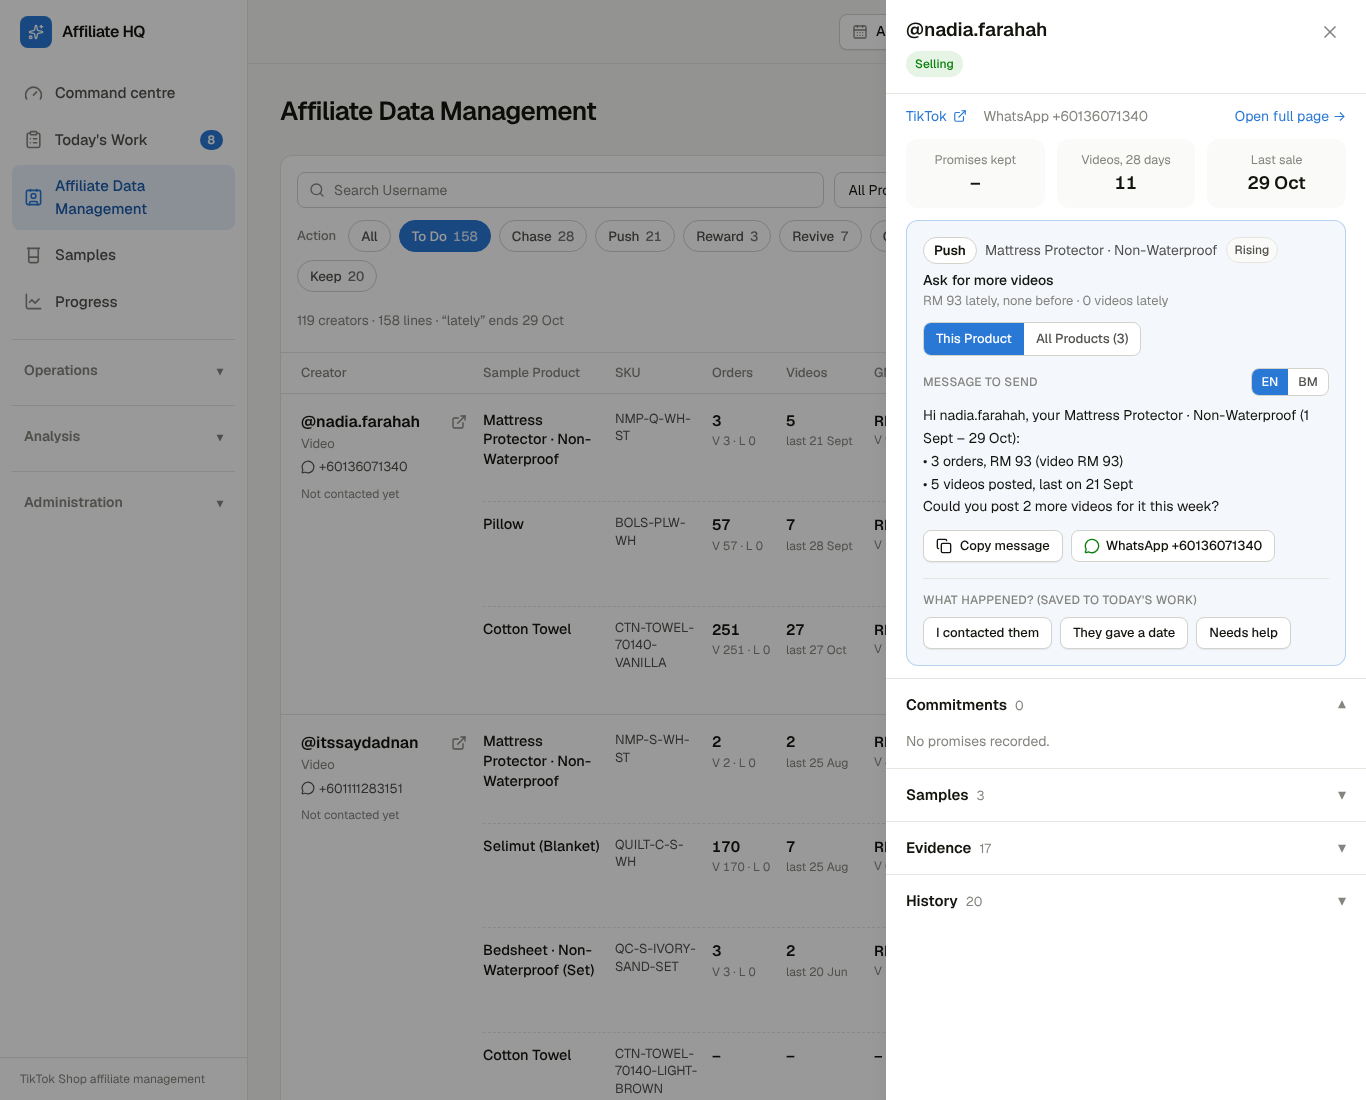
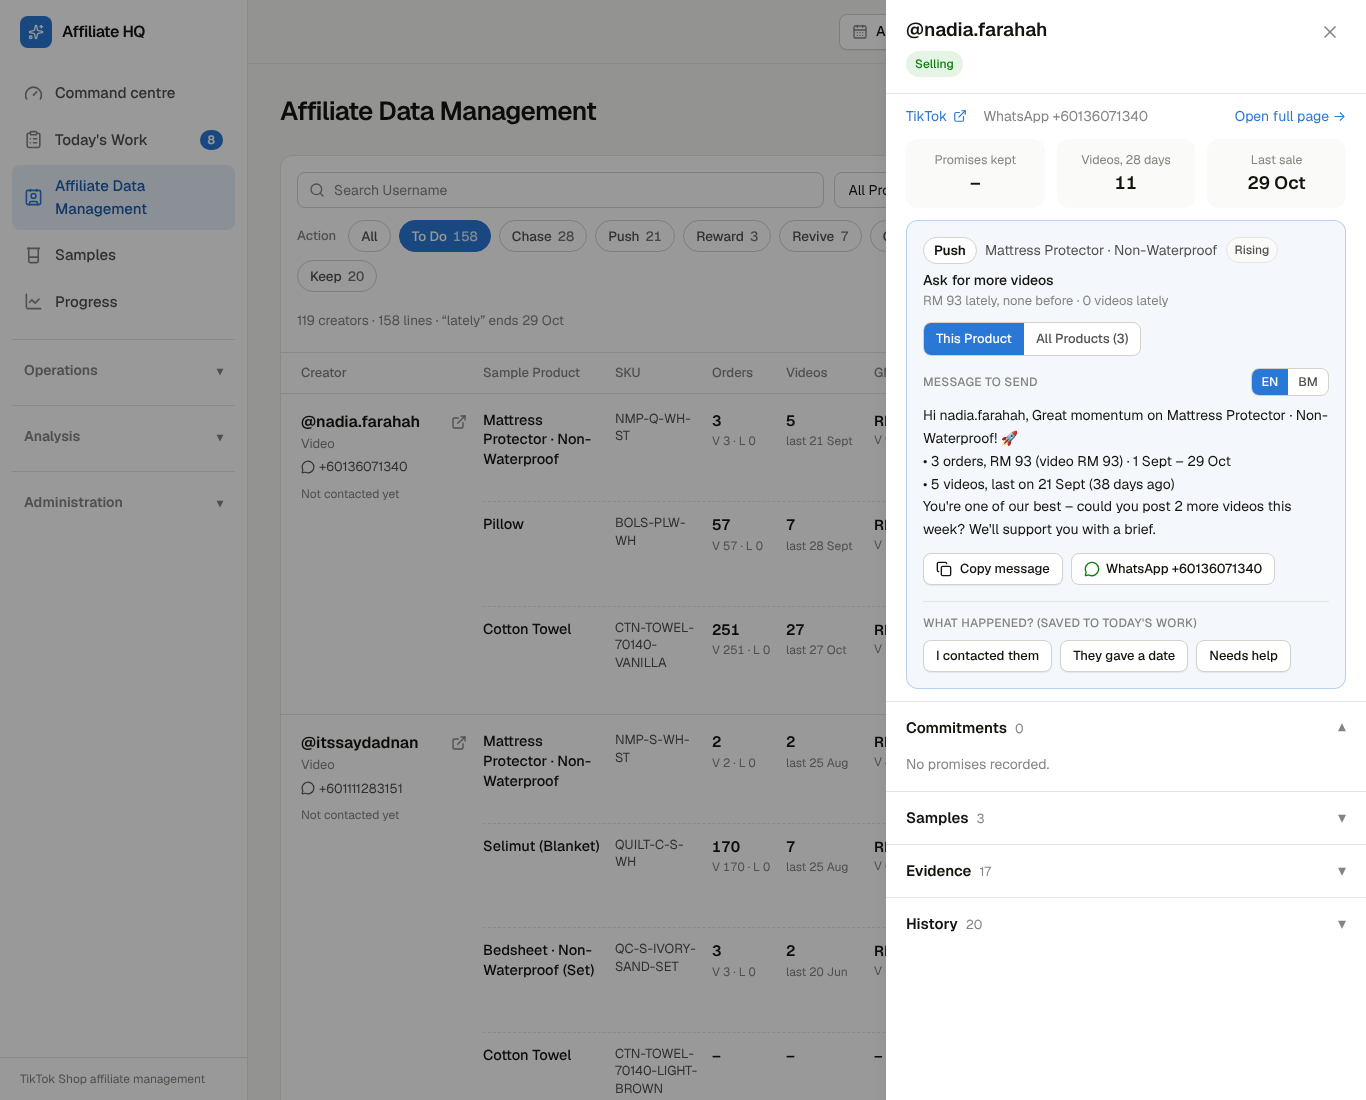
Affiliate data: sortable GMV headings, 50 per page, status-based appreciative messages with last-video age
Claude-Session: https://claude.ai/code/session_01L6SQd9S1HK5RVe12JHKehy

Changed region(s): [[0.6457, 0.3709, 0.9531, 0.8655]]

diff --git a/src/lib/affiliates/action-messages.ts b/src/lib/affiliates/action-messages.ts
@@ -11,10 +11,11 @@ export type LineStats = {
   videos: number;
   videos28: number;
   lastVideoLabel: string | null;
+  lastVideoDaysAgo?: number | null;
   action: CreatorAction;
   status: string;
 };
-export const statsOf = (l: LineStats): LineStats => ({ name: l.name, orders: l.orders, gmv: l.gmv, gmvVideo: l.gmvVideo, gmvLive: l.gmvLive, videos: l.videos, videos28: l.videos28, lastVideoLabel: l.lastVideoLabel, action: l.action, status: l.status });
+export const statsOf = (l: LineStats): LineStats => ({ name: l.name, orders: l.orders, gmv: l.gmv, gmvVideo: l.gmvVideo, gmvLive: l.gmvLive, videos: l.videos, videos28: l.videos28, lastVideoLabel: l.lastVideoLabel, lastVideoDaysAgo: l.lastVideoDaysAgo, action: l.action, status: l.status });
 export type Msg = { en: string; ms: string };
 
 const rm = (n: number) => `RM ${Math.round(n).toLocaleString("en-MY")}`;
@@ -30,16 +31,33 @@ function numbers(l: LineStats, ms: boolean): string[] {
   return out;
 }
 
-const REQ: Record<CreatorAction, Msg | null> = {
-  Push: { en: "Could you post 2 more videos for it this week?", ms: "Boleh awak upload 2 video lagi untuk produk ini minggu ini?" },
-  Reward: { en: "Thank you! We'd like to send you another sample – which product next?", ms: "Terima kasih! Kami nak hantar satu lagi sampel – produk apa seterusnya?" },
-  Revive: { en: "Could you post a fresh video for it?", ms: "Boleh awak upload video baharu untuk produk ini?" },
-  Chase: { en: "Could you let us know when you plan to post?", ms: "Boleh beritahu bila awak merancang untuk upload?" },
-  Coach: { en: "Want a hook idea or voucher code to lift sales?", ms: "Nak idea hook atau kod baucar untuk tingkatkan jualan?" },
+/** How long since the last video, in plain words ("last video 90 days ago (12 Aug)"). */
+const lastVid = (l: LineStats, ms: boolean) => {
+  if (l.videos <= 0) return ms ? "Belum ada video" : "No video posted yet";
+  const ago = l.lastVideoDaysAgo != null && l.lastVideoDaysAgo >= 14 ? (ms ? ` (${l.lastVideoDaysAgo} hari lalu)` : ` (${l.lastVideoDaysAgo} days ago)`) : "";
+  return ms ? `${l.videos} video, terakhir ${l.lastVideoLabel ?? "?"}${ago}` : `${l.videos} video${l.videos === 1 ? "" : "s"}, last on ${l.lastVideoLabel ?? "?"}${ago}`;
+};
+
+// Opening (thanks / encouragement) by status, closing request by action. Short, polite, motivating.
+const OPEN: Record<string, (p: string) => Msg> = {
+  Winner: (p) => ({ en: `Amazing work on ${p}! 🎉`, ms: `Syabas untuk ${p}! 🎉` }),
+  Rising: (p) => ({ en: `Great momentum on ${p}! 🚀`, ms: `Prestasi ${p} makin naik! 🚀` }),
+  Steady: (p) => ({ en: `Thank you for selling ${p} steadily 🙏`, ms: `Terima kasih sebab terus menjual ${p} 🙏` }),
+  Slipping: (p) => ({ en: `${p} did really well for you earlier – let's bring it back up 💪`, ms: `${p} dulu laku untuk awak – jom naikkan semula 💪` }),
+  Quiet: (p) => ({ en: `We miss your ${p} videos 😊`, ms: `Kami rindu video ${p} awak 😊` }),
+  Silent: (p) => ({ en: `Hope you're well! 😊 Your ${p} sample has arrived.`, ms: `Harap awak sihat! 😊 Sampel ${p} awak sudah sampai.` }),
+  Posted: (p) => ({ en: `Thank you for posting ${p}! 🙌`, ms: `Terima kasih upload ${p}! 🙌` }),
+};
+const CLOSE: Record<CreatorAction, Msg | null> = {
+  Push: { en: "You're one of our best – could you post 2 more videos this week? We'll support you with a brief.", ms: "Awak antara yang terbaik – boleh upload 2 video lagi minggu ini? Kami bantu dengan brief." },
+  Reward: { en: "You've earned it – we'd love to send you another sample. Which one next?", ms: "Awak layak – kami nak hantar sampel lagi. Yang mana seterusnya?" },
+  Revive: { en: "One fresh video could bring those orders back – could you post one soon?", ms: "Satu video baharu boleh bawa balik pesanan itu – boleh upload tak lama lagi?" },
+  Chase: { en: "We'd love to see your video – when do you plan to post? Need a brief? Just reply.", ms: "Kami teringin tengok video awak – bila awak nak upload? Perlukan brief? Balas sahaja." },
+  Coach: { en: "Want a hook idea or voucher code to turn views into orders? Happy to share!", ms: "Nak idea hook atau kod baucar untuk tukar tontonan jadi pesanan? Kami kongsi!" },
   Approach: null, Resume: null, Keep: null, Wait: null,
 };
 
-/** Short message about ONE product: its orders, GMV (video / LIVE only if any), videos and last video, then the request. */
+/** Short message about ONE product: thanks by status, the numbers (LIVE only if any), last video age, then one clear request. */
 export function lineMessage(action: CreatorAction, username: string, product: string | null, l: LineStats | null, period: string): Msg | null {
   if (action === "Approach") {
     const p = product ?? "our products";
@@ -48,13 +66,16 @@ export function lineMessage(action: CreatorAction, username: string, product: st
       ms: `Hai ${username}, kami suka kandungan awak dan rasa ${p} kami sesuai untuk penonton awak. Nak sampel percuma? Balas di sini dan kami uruskan.`,
     };
   }
-  const req = REQ[action];
-  if (!req || !l) return null;
-  const en = numbers(l, false).map((x) => `• ${x}`).join("\n");
-  const ms = numbers(l, true).map((x) => `• ${x}`).join("\n");
+  const close = CLOSE[action];
+  if (!close || !l) return null;
+  const open = (OPEN[l.status] ?? OPEN.Steady)(product ?? l.name);
+  const nums = (ms: boolean) => {
+    const o = numbers(l, ms)[0];
+    return `• ${o} · ${period}\n• ${lastVid(l, ms)}`;
+  };
   return {
-    en: `Hi ${username}, your ${product ?? l.name} (${period}):\n${en}\n${req.en}`,
-    ms: `Hai ${username}, ${product ?? l.name} awak (${period}):\n${ms}\n${req.ms}`,
+    en: `Hi ${username}, ${open.en}\n${nums(false)}\n${close.en}`,
+    ms: `Hai ${username}, ${open.ms}\n${nums(true)}\n${close.ms}`,
   };
 }
 
@@ -76,7 +97,7 @@ export function overviewMessage(username: string, all: LineStats[], period: stri
   if (top && (top.status === "Winner" || top.status === "Rising")) { asksEn.push(`We'd love to send you a new sample to take you to the next level – which one would you like?`); asksMs.push(`Kami nak hantar sampel baharu untuk bawa awak ke tahap seterusnya – awak nak yang mana?`); }
   if (!asksEn.length) { asksEn.push("Could you post a fresh video for one of them this week?"); asksMs.push("Boleh upload video baharu untuk salah satunya minggu ini?"); }
   return {
-    en: `Hi ${username}, your summary with us (${period}):\n${rows(false)}\nTotal: ${orders} orders, ${rm(gmv)}.\n${asksEn.join("\n")}`,
-    ms: `Hai ${username}, ringkasan awak bersama kami (${period}):\n${rows(true)}\nJumlah: ${orders} pesanan, ${rm(gmv)}.\n${asksMs.join("\n")}`,
+    en: `Hi ${username}, ${gmv > 0 ? "thank you for being a great partner! 🙌" : "thank you for working with us! 🙏"} Your summary (${period}):\n${rows(false)}\nTotal: ${orders} orders, ${rm(gmv)}.\n${asksEn.join("\n")} ${gmv > 0 ? "You're doing great – let's grow it together! 🚀" : "Let's get your first sales going! 💪"}`,
+    ms: `Hai ${username}, ${gmv > 0 ? "terima kasih kerana jadi rakan kongsi yang hebat! 🙌" : "terima kasih kerana bekerjasama dengan kami! 🙏"} Ringkasan awak (${period}):\n${rows(true)}\nJumlah: ${orders} pesanan, ${rm(gmv)}.\n${asksMs.join("\n")} ${gmv > 0 ? "Awak buat dengan baik – jom berkembang bersama! 🚀" : "Jom mulakan jualan pertama awak! 💪"}`,
   };
 }

diff --git a/src/app/(app)/affiliates/page.tsx b/src/app/(app)/affiliates/page.tsx
@@ -1,4 +1,5 @@
 import type { Metadata } from "next";
+import { Fragment } from "react";
 import Link from "next/link";
 import { ExternalLink, MessageCircle } from "lucide-react";
 import { requireUser } from "@/lib/auth";
@@ -17,8 +18,8 @@ import { LineAction } from "@/components/affiliates/line-action";
 import { cn, fmtRM } from "@/lib/utils";
 
 export const metadata: Metadata = { title: "Affiliate Data Management" };
-const SIZE = 15;
-const COLS = "lg:grid-cols-[170px_minmax(120px,1.2fr)_minmax(85px,0.8fr)_62px_76px_96px_minmax(120px,1.1fr)_minmax(105px,0.9fr)_92px]";
+const SIZE = 50;
+const COLS = "lg:grid-cols-[170px_minmax(120px,1.2fr)_minmax(85px,0.8fr)_62px_76px_96px_92px_minmax(120px,1.1fr)_minmax(105px,0.9fr)]";
 const TONE: Record<CreatorStatus, "good" | "brand" | "warn" | "critical" | "neutral"> = { Winner: "good", Rising: "good", Steady: "neutral", Slipping: "warn", Quiet: "warn", Silent: "critical", Waiting: "neutral", Posted: "brand", New: "brand", Paused: "neutral" };
 
 const rmShort = (n: number) => (n <= 0 ? "–" : fmtRM(n));
@@ -79,6 +80,12 @@ export default async function AffiliatesPage({ searchParams }: PageProps<"/affil
   const { period, range } = await sampleRange(sp);
   const periodLabel = `${fmtDayLabel(period.start)} – ${fmtDayLabel(period.end)}`;
   const dir = await getAffiliateDirectory({ ...opts, range, size: SIZE });
+  const sortHref = (sort: string) => href("/affiliates", { ...pageFilters, sort: sort === "gmv" ? undefined : sort, range: sp.range ? one(sp.range) : undefined, from: one(sp.from), to: one(sp.to) });
+  /** A column heading that sorts: first click high to low, click again for low to high. */
+  const head = (label: string, asc: string, desc: string) => {
+    const cur = values.sort === desc ? "desc" : values.sort === asc ? "asc" : null;
+    return <Link href={sortHref(cur === "desc" ? asc : desc)} scroll={false} aria-label={`Sort by ${label}`} className={cn("inline-flex items-center gap-1 hover:text-ink", cur && "text-ink")}>{label}<span aria-hidden className="text-[11px]">{cur === "desc" ? "▼" : cur === "asc" ? "▲" : "↕"}</span></Link>;
+  };
   const statsAll = (r: DirRow) => r.allLines.filter((l) => !l.noSample).map(statsOf);
   const page = opts.page ?? 1;
   const pages = Math.max(1, Math.ceil(dir.total / SIZE));
@@ -103,7 +110,7 @@ export default async function AffiliatesPage({ searchParams }: PageProps<"/affil
         ) : (
           <>
             <div className={cn("hidden gap-x-3 border-b border-line px-5 py-2.5 text-[13px] font-medium text-ink-3 lg:grid", COLS)}>
-              <span>Creator</span><span>Sample Product</span><span>SKU</span><span>Orders</span><span>Videos</span><span>GMV</span><span>Status</span><span>Action</span><span>Total GMV</span>
+              <span>Creator</span><span>Sample Product</span><span>SKU</span><span>Orders</span><span>Videos</span>{head("GMV", "linegmv_asc", "linegmv")}{head("Total GMV", "gmv_asc", "gmv")}<span>Status</span><span>Action</span>
             </div>
             <ul className="divide-y divide-line">
               {dir.rows.map((r) => (
@@ -112,13 +119,18 @@ export default async function AffiliatesPage({ searchParams }: PageProps<"/affil
                   <div className={cn("hidden gap-x-3 gap-y-3 lg:grid", COLS)}>
                     <div style={{ gridColumn: 1, gridRow: `1 / span ${r.lines.length}` }}><CreatorBlock r={r} /></div>
                     {r.lines.map((l, i) => (
-                      <div key={l.pid ?? `n${i}`} data-testid="dir-line" className={cn("col-start-2 col-end-9 grid grid-cols-subgrid items-start gap-x-3", i > 0 && "border-t border-dashed border-line pt-3")} style={{ gridRow: i + 1 }}>
-                        <p className={cn("min-w-0 text-[14.5px] leading-snug", l.noSample ? "text-ink-3" : "font-medium text-ink")} title={l.name}>{l.name}</p>
-                        <div className="min-w-0 text-[13px] leading-snug text-ink-2">{l.skus.length ? l.skus.map((s) => <p key={s} className="break-words" title={s}>{s}</p>) : <span className="text-ink-3">–</span>}</div>
-                        <Orders l={l} /><Videos l={l} /><Gmv l={l} /><StatusCell l={l} /><LineAction username={r.username} line={l} all={statsAll(r)} period={periodLabel} />
-                      </div>
+                      <Fragment key={l.pid ?? `n${i}`}>
+                        <div data-testid="dir-line" className={cn("col-start-2 col-end-7 grid grid-cols-subgrid items-start gap-x-3", i > 0 && "border-t border-dashed border-line pt-3")} style={{ gridRow: i + 1 }}>
+                          <p className={cn("min-w-0 text-[14.5px] leading-snug", l.noSample ? "text-ink-3" : "font-medium text-ink")} title={l.name}>{l.name}</p>
+                          <div className="min-w-0 text-[13px] leading-snug text-ink-2">{l.skus.length ? l.skus.map((s) => <p key={s} className="break-words" title={s}>{s}</p>) : <span className="text-ink-3">–</span>}</div>
+                          <Orders l={l} /><Videos l={l} /><Gmv l={l} />
+                        </div>
+                        <div className={cn("col-start-8 col-end-10 grid grid-cols-subgrid items-start gap-x-3", i > 0 && "border-t border-dashed border-line pt-3")} style={{ gridRow: i + 1 }}>
+                          <StatusCell l={l} /><LineAction username={r.username} line={l} all={statsAll(r)} period={periodLabel} />
+                        </div>
+                      </Fragment>
                     ))}
-                    <div className="tnum whitespace-nowrap" style={{ gridColumn: 9, gridRow: `1 / span ${r.lines.length}` }}><p className="text-[16px] font-semibold text-ink">{rmShort(r.gmvAll)}</p></div>
+                    <div className="tnum whitespace-nowrap" style={{ gridColumn: 7, gridRow: `1 / span ${r.lines.length}` }}><p className="text-[16px] font-semibold text-ink">{rmShort(r.gmvAll)}</p></div>
                   </div>
                   {/* mobile / tablet: stacked */}
                   <div className="space-y-3 lg:hidden">

diff --git a/src/lib/workflow/directory.ts b/src/lib/workflow/directory.ts
@@ -23,6 +23,8 @@ export type DirLine = {
   videos28: number;
   lastVideoOn: string | null;
   lastVideoLabel: string | null;
+  /** Days from the last video to the latest order we hold. */
+  lastVideoDaysAgo: number | null;
   undatedVideos: number;
   status: CreatorStatus;
   action: CreatorAction;
@@ -42,7 +44,7 @@ export type DirRow = {
   lastContactedOn: string | null;
 };
 
-export type DirSort = "gmv" | "lately" | "attention" | "video" | "stale" | "name";
+export type DirSort = "gmv" | "gmv_asc" | "linegmv" | "linegmv_asc" | "lately" | "attention" | "video" | "stale" | "name";
 export type DirOpts = {
   q?: string;
   samples?: "with" | "none" | "all";
@@ -182,7 +184,7 @@ export async function getAffiliateDirectory(opts: DirOpts): Promise<Directory> {
       lines.push({
         pid: p.pid, name: listingName(p.short, p.full, p.sku_name ?? p.smp_name), skus: p.skus ?? [], noSample: false,
         ordersVideo: sp?.ov ?? 0, ordersLive: sp?.ol ?? 0, orders: sp?.ot ?? 0, gmvVideo: sp?.gv ?? 0, gmvLive: sp?.gl ?? 0, gmv: sp?.gmv ?? 0,
-        videos: vp?.n ?? 0, videos28: vp?.n28 ?? 0, lastVideoOn: vp?.last ?? null, lastVideoLabel: vp?.last ? fmtDayLabel(vp.last) : null, undatedVideos: vp?.undated ?? 0,
+        videos: vp?.n ?? 0, videos28: vp?.n28 ?? 0, lastVideoOn: vp?.last ?? null, lastVideoLabel: vp?.last ? fmtDayLabel(vp.last) : null, lastVideoDaysAgo: vp?.last && ref ? Math.max(0, Math.round((Date.parse(ref) - Date.parse(vp.last)) / 86400000)) : null, undatedVideos: vp?.undated ?? 0,
         status: st.status, action: st.action, reason: explainStatus(input, st.status),
       });
     }
@@ -195,7 +197,7 @@ export async function getAffiliateDirectory(opts: DirOpts): Promise<Directory> {
       const st = creatorStatus(input);
       lines.push({
         pid: null, name: "No sample sent", skus: [], noSample: true, ordersVideo: cs?.ov ?? 0, ordersLive: cs?.ol ?? 0, orders: 0,
-        gmvVideo: 0, gmvLive: 0, gmv: 0, videos: 0, videos28: v28By.get(r.username) ?? 0, lastVideoOn: null, lastVideoLabel: null, undatedVideos: 0,
+        gmvVideo: 0, gmvLive: 0, gmv: 0, videos: 0, videos28: v28By.get(r.username) ?? 0, lastVideoOn: null, lastVideoLabel: null, lastVideoDaysAgo: null, undatedVideos: 0,
         status: st.status, action: st.action, reason: explainStatus(input, st.status),
       });
     }
@@ -254,9 +256,13 @@ export async function getAffiliateDirectory(opts: DirOpts): Promise<Directory> {
   }
   const lately = (a: DirRow) => a.lines.reduce((m, l) => Math.max(m, l.videos28), 0);
   const lastVid = (a: DirRow) => a.lines.reduce((m, l) => (l.lastVideoOn && l.lastVideoOn > m ? l.lastVideoOn : m), "");
+  const topLine = (a: DirRow) => a.lines.reduce((m, l) => Math.max(m, l.gmv), 0);
   const best = (a: DirRow) => Math.min(...a.lines.map((l) => ATTN[l.action]));
   filtered.sort((a, b) => {
     switch (opts.sort) {
+      case "gmv_asc": return a.gmvAll - b.gmvAll || a.username.localeCompare(b.username);
+      case "linegmv": return topLine(b) - topLine(a) || a.username.localeCompare(b.username);
+      case "linegmv_asc": return topLine(a) - topLine(b) || a.username.localeCompare(b.username);
       case "name": return a.username.localeCompare(b.username);
       case "video": return lately(b) - lately(a) || b.gmvAll - a.gmvAll || a.username.localeCompare(b.username);
       case "stale": {
@@ -266,11 +272,11 @@ export async function getAffiliateDirectory(opts: DirOpts): Promise<Directory> {
       }
       case "lately": return (cBy.get(b.username)?.gmv28 ?? 0) - (cBy.get(a.username)?.gmv28 ?? 0) || a.username.localeCompare(b.username);
       case "attention": return Number(b.overdue) - Number(a.overdue) || best(a) - best(b) || b.gmvAll - a.gmvAll || a.username.localeCompare(b.username);
-      default: return b.gmvAll - a.gmvAll || a.username.localeCompare(b.username);
+      default: return (b.gmvAll - a.gmvAll) || a.username.localeCompare(b.username);
     }
   });
 
-  const size = opts.size ?? 15;
+  const size = opts.size ?? 50;
   const page = Math.max(1, opts.page ?? 1);
   return {
     rows: filtered.slice((page - 1) * size, page * size),

diff --git a/scripts/test-status.ts b/scripts/test-status.ts
@@ -30,8 +30,10 @@ const LN = listingName;
 check("listing names are short and tell listings apart", LN("Washable Quilted THICK Mattress Protector · Non-waterproof · Exclusive", "x") === "Mattress Protector · Non-Waterproof (Exclusive)" && LN("Washable Quilted THICK Mattress Protector · Waterproof", "x") === "Mattress Protector · Waterproof" && LN("Set Waterproof Plain Premium Fitted Bedsheet", "") === "Bedsheet · Waterproof (Set)" && LN("Plain Premium Fitted Bedsheet", "ALOOMA Plain Premium Fitted Bedsheet") === "Bedsheet · Non-Waterproof (Single Item)" && LN("Washable Quilted THICK Pillow Protector", "Anti-Dust Mite & Waterproof") === "Pillow Protector");
 const ls: LineStats = { name: "Bedsheet · Waterproof (Single Item)", orders: 14, gmv: 460, gmvVideo: 460, gmvLive: 0, videos: 4, videos28: 3, lastVideoLabel: "19 Oct", action: "Push", status: "Rising" };
 const lm = lineMessage("Push", "amy", ls.name, ls, "1 Sep – 29 Oct")!;
-check("line message: orders, GMV by video only (no LIVE when none), videos, last date, then the request", /14 orders, RM 460 \(video RM 460\)/.test(lm.en) && !/LIVE/.test(lm.en) && /4 videos posted, last on 19 Oct/.test(lm.en) && /post 2 more videos/.test(lm.en) && /1 Sep – 29 Oct/.test(lm.en) && lm.en.split("\n").length === 4);
+check("line message: orders, GMV by video only (no LIVE when none), videos, last date, then the request", /14 orders, RM 460 \(video RM 460\)/.test(lm.en) && !/LIVE/.test(lm.en) && /4 videos, last on 19 Oct/.test(lm.en) && /post 2 more videos/.test(lm.en) && /Great momentum/.test(lm.en) && /1 Sep – 29 Oct/.test(lm.en) && lm.en.split("\n").length === 4);
+const silent = lineMessage("Chase", "amy", "Pillow", { ...ls, name: "Pillow", orders: 3, gmv: 120, gmvVideo: 120, videos: 2, lastVideoLabel: "12 Aug", lastVideoDaysAgo: 90, action: "Chase", status: "Silent" }, "p")!;
+check("a message for a silent creator is polite, shows her last video age and numbers, and asks for a video", /Hope you're well/.test(silent.en) && /90 days ago/.test(silent.en) && /3 orders, RM 120/.test(silent.en) && /when do you plan to post/.test(silent.en) && /hari lalu/.test(silent.ms));
 const om = overviewMessage("amy", [ls, { ...ls, name: "Pillow", orders: 0, gmv: 0, gmvVideo: 0, videos: 0, action: "Chase", status: "Silent" }], "p")!;
-check("all-products message lists each product, a total, and asks from the numbers (more videos for the one that sells, waiting for the unposted)", /Bedsheet[^\n]*14 orders/.test(om.en) && /Pillow: no orders yet, no video yet/.test(om.en) && /Total: 14 orders, RM 460/.test(om.en) && /sells well from only 4 videos/.test(om.en) === false && /Still waiting for your video on Pillow/.test(om.en) && /next level/.test(om.en));
+check("all-products message lists each product, a total, and asks from the numbers (more videos for the one that sells, waiting for the unposted)", /Bedsheet[^\n]*14 orders/.test(om.en) && /Pillow: no orders yet, no video yet/.test(om.en) && /Total: 14 orders, RM 460/.test(om.en) && /sells well from only 4 videos/.test(om.en) === false && /Still waiting for your video on Pillow/.test(om.en) && /next level/.test(om.en) && /thank you for being a great partner/.test(om.en) && /let's grow it together/.test(om.en));
 console.log(`\n${pass} passed, ${fail} failed`);
 process.exit(fail ? 1 : 0);

diff --git a/src/components/affiliates/directory-filters.tsx b/src/components/affiliates/directory-filters.tsx
@@ -104,7 +104,7 @@ export function DirectoryFilters({ values, products, actions, todo, statuses, sh
         <span>{shown}{pending ? " · Updating…" : ""}</span>
         <span className="flex items-center gap-3">
           {dirty && (
-            <button type="button" onClick={() => { setQ(""); start(() => router.replace(href(path, values.sort === "gmv" ? {} : { sort: values.sort }), { scroll: false })); }} className="inline-flex items-center gap-1 text-ink-2 hover:text-brand">
+            <button type="button" onClick={() => { setQ(""); start(() => router.replace(href(path, { sort: values.sort === "gmv" ? "" : values.sort }), { scroll: false })); }} className="inline-flex items-center gap-1 text-ink-2 hover:text-brand">
               <X className="size-3.5" /> Clear Filters
             </button>
           )}

diff --git a/src/lib/workflow/directory-params.ts b/src/lib/workflow/directory-params.ts
@@ -6,6 +6,9 @@ export const STATUSES: CreatorStatus[] = ["Silent", "Slipping", "Winner", "Risin
 export const ACTIONS: CreatorAction[] = ["Chase", "Push", "Reward", "Revive", "Coach", "Approach", "Resume", "Wait", "Keep"];
 export const SORTS: { key: DirSort; label: string }[] = [
   { key: "gmv", label: "Highest total GMV" },
+  { key: "gmv_asc", label: "Lowest total GMV" },
+  { key: "linegmv", label: "Highest product GMV" },
+  { key: "linegmv_asc", label: "Lowest product GMV" },
   { key: "lately", label: "Best lately (28 days)" },
   { key: "attention", label: "Needs attention first" },
   { key: "video", label: "Most videos lately" },
